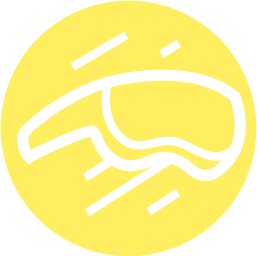
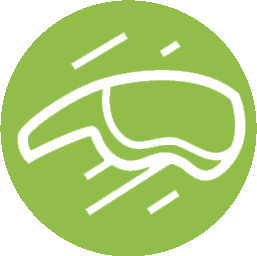
Small fixes

diff --git a/package.html b/package.html
@@ -133,7 +133,7 @@
 								<div class="skillContainer">
 								<div class="skill">
 									<img class="skillIcon" src="images/skill_gamedesign.png" />
-									<div class="skillLabel yellow">
+									<div class="skillLabel green">
 										GAME DESIGN
 									</div>
 								</div>
@@ -175,7 +175,7 @@
 									<a href="topic.html#ARCADEdesign">
 									<div class="topicsTitle">
 										ARCADE/design
-										<div class="topicsWeek">
+										<div class="topicsWeeks">
 											1 week
 										</div>
 									</div>
@@ -199,7 +199,7 @@
 									<a href="topic.html#DRIVEdesign">
 									<div class="topicsTitle">
 										DRIVE/design
-										<div class="topicsWeek">
+										<div class="topicsWeeks">
 											1 week
 										</div>
 									</div>
@@ -222,7 +222,7 @@
 									<a href="topic.html#VIRTUALreality">
 									<div class="topicsTitle">
 										VIRTUAL/reality
-										<div class="topicsWeek">
+										<div class="topicsWeeks">
 											2 weeks
 										</div>
 									</div>
@@ -520,7 +520,7 @@
 								</div>
 								<div class="skill">
 									<img class="skillIcon" src="images/skill_gamedesign.png" />
-									<div class="skillLabel yellow">
+									<div class="skillLabel green">
 										GAME DESIGN
 									</div>
 								</div>
@@ -1230,7 +1230,7 @@
 								</div>
 								<div class="skill">
 									<img class="skillIcon" src="images/skill_gamedesign.png" />
-									<div class="skillLabel yellow">
+									<div class="skillLabel green">
 										GAME DESIGN
 									</div>
 								</div>
@@ -1574,7 +1574,7 @@
 								</div>
 								<div class="skill">
 									<img class="skillIcon" src="images/skill_gamedesign.png" />
-									<div class="skillLabel yellow">
+									<div class="skillLabel green">
 										GAME DESIGN
 									</div>
 								</div>
@@ -1610,7 +1610,7 @@
 									<a href="topic.html#DRIVEdesign">
 									<div class="topicsTitle">
 										DRIVE/design
-										<div class="topicsWeek">
+										<div class="topicsWeeks">
 											1 week
 										</div>
 									</div>
@@ -1633,7 +1633,7 @@
 									<a href="topic.html#SPORTSdesign">
 									<div class="topicsTitle">
 										SPORTS/design
-										<div class="topicsWeek">
+										<div class="topicsWeeks">
 											1 week
 										</div>
 									</div>
@@ -1657,7 +1657,7 @@
 									<a href="topic.html#FLIGHTdesign">
 									<div class="topicsTitle">
 										FLIGHT/design
-										<div class="topicsWeek">
+										<div class="topicsWeeks">
 											1 week
 										</div>
 									</div>
@@ -1934,7 +1934,7 @@
 									<img src="images/subways_Z.jpg" />
 								</div>
 								<div id="locationBlurb">
-									CAMP/pixel is at Pine Street School, a new, state-of-the-art private school in the Financial District. The school offers modern, sunlit-classrooms and friendly, open common areas for activities. Pixel Academy is there year-round, running in-school and after-school programs to the students and community. For full information on the school, visit <a href="http://www.pinestreetschool.com/" target="_blank">www.pinestreetschool.com</a>.
+									CAMP/pixel is taking over an entire, 25,000 sq. ft. floor of Pine Street School, a new, state-of-the-art private school in the Financial District for an immersive and totally unique technology camp experience. For full information on the school, visit <a href="http://www.pinestreetschool.com/" target="_blank">www.pinestreetschool.com</a>.
 								</div>
 								<div id="locationBlurb">
 									For more location information, visit <a href="about.html#location">CAMP/about</a>.

diff --git a/topics.html b/topics.html
@@ -123,6 +123,9 @@
 							NEW!
 						</div>
 						SPORTS/design
+						<div class="topicsWeeks">
+							1 week
+						</div>
 					</div>
 					<div class="topicsPicture">	
 						<img src="images/SPORTS_design_large.jpg">
@@ -154,6 +157,9 @@
 							NEW!
 						</div>
 						FASHION/design
+						<div class="topicsWeeks">
+							1 week
+						</div>
 					</div>
 					<div class="topicsPicture">	
 						<img src="images/FASHION_design_large.jpg">
@@ -216,6 +222,9 @@
 					<a href="topic.html#CUTscenes">
 					<div class="topicsTitle">
 						CUT/scenes
+						<div class="topicsWeeks">
+							1 week
+						</div>
 					</div>
 					<div class="topicsPicture">	
 						<img src="images/CUT_scenes_large.jpg">
@@ -243,6 +252,9 @@
 					<a href="topic.html#DJproduction">
 					<div class="topicsTitle">
 						DJ/production
+						<div class="topicsWeeks">
+							1 week
+						</div>
 					</div>
 					<div class="topicsPicture">	
 						<img src="images/DJ_production_large.jpg">
@@ -270,6 +282,9 @@
 					<a href="topic.html#DRIVEdesign">
 					<div class="topicsTitle">
 						DRIVE/design
+						<div class="topicsWeeks">
+							1 week
+						</div>
 					</div>
 					<div class="topicsPicture">	
 						<img src="images/DRIVE_design_large.jpg">
@@ -297,6 +312,9 @@
 					<a href="topic.html#FLIGHTdesign">
 					<div class="topicsTitle">
 						FLIGHT/design
+						<div class="topicsWeeks">
+							1 week
+						</div>
 					</div>
 					<div class="topicsPicture">	
 						<img src="images/FLIGHT_design_large.jpg">
@@ -324,6 +342,9 @@
 					<a href="topic.html#JURASSICparts">
 					<div class="topicsTitle">
 						JURASSIC/parts
+						<div class="topicsWeeks">
+							1 week
+						</div>
 					</div>
 					<div class="topicsPicture">	
 						<img src="images/JURASSIC_parts_large.jpg">
@@ -351,6 +372,9 @@
 					<a href="topic.html#MINECRAFTarchitect">
 					<div class="topicsTitle">
 						MINECRAFT/architect
+						<div class="topicsWeeks">
+							1 week
+						</div>
 					</div>
 					<div class="topicsPicture">	
 						<img src="images/MINECRAFT_architect_large.jpg">
@@ -378,6 +402,9 @@
 					<a href="topic.html#MINECRAFTcoding">
 					<div class="topicsTitle">
 						MINECRAFT/coding
+						<div class="topicsWeeks">
+							2 weeks
+						</div>
 					</div>
 					<div class="topicsPicture">	
 						<img src="images/MINECRAFT_coding_large.jpg">
@@ -405,6 +432,9 @@
 					<a href="topic.html#MINECRAFTcodingplus">
 					<div class="topicsTitle">
 						MINECRAFT/coding+
+						<div class="topicsWeeks">
+							2 weeks
+						</div>
 					</div>
 					<div class="topicsPicture">	
 						<img src="images/MINECRAFT_coding +_large.jpg">
@@ -432,6 +462,9 @@
 					<a href="topic.html#MINECRAFTengineering">
 					<div class="topicsTitle">
 						MINECRAFT/engineering
+						<div class="topicsWeeks">
+							1 week
+						</div>
 					</div>
 					<div class="topicsPicture">	
 						<img src="images/MINECRAFT_engineering_large.jpg">
@@ -443,7 +476,7 @@
 								</div>
 								<span>Physical Project:</span><br/>Create a Game with littleBits<br/>
 								<div class="topicDates">
-									July 4-15 / July 18-29 / Aug 1-12 / Aug 15-26
+									Jun-Jul 27-1 / July 4-8 / July 11-15 /July 18-22 / July 25-29 / Aug 1-5 / Aug 8-12 / Aug 15-19 / Aug-Sep 29-2 
 								</div>
 							</div>
 						</div>
@@ -458,6 +491,9 @@
 					<a href="topic.html#VIRTUALreality">
 					<div class="topicsTitle">
 						VIRTUAL/reality
+						<div class="topicsWeeks">
+							2 weeks
+						</div>
 					</div>
 					<div class="topicsPicture">	
 						<img src="images/VIRTUAL_reality_large.jpg">

diff --git a/topic.html b/topic.html
@@ -776,7 +776,7 @@
 								<div class="scheduleLabel">Length</div> One Week
 							</div>
 							<div class="topicScheduleDates">
-								<div class="scheduleLabel">Dates</div> July 4-15 / July 18-29 / Aug 1-12 / Aug 15-26
+								<div class="scheduleLabel">Dates</div> Jun-Jul 27-1 / July 4-8 / July 11-15 /July 18-22 / July 25-29 / Aug 1-5 / Aug 8-12 / Aug 15-19 / Aug-Sep 29-2 
 							</div>
 						</div>
 					</div>
@@ -1264,7 +1264,7 @@
 								<img src="images/subways_Z.jpg" />
 							</div>
 							<div id="locationBlurb">
-								CAMP/pixel is at Pine Street School, a new, state-of-the-art private school in the Financial District. The school offers modern, sunlit-classrooms and friendly, open common areas for activities. Pixel Academy is there year-round, running in-school and after-school programs to the students and community. For full information on the school, visit <a href="http://www.pinestreetschool.com/" target="_blank">www.pinestreetschool.com</a>.
+								CAMP/pixel is taking over an entire, 25,000 sq. ft. floor of Pine Street School, a new, state-of-the-art private school in the Financial District for an immersive and totally unique technology camp experience. For full information on the school, visit <a href="http://www.pinestreetschool.com/" target="_blank">www.pinestreetschool.com</a>.
 							</div>
 							<div id="locationBlurb">
 								For more location information, visit <a href="about.html#location">CAMP/about</a>.

diff --git a/about.html b/about.html
@@ -472,7 +472,7 @@
 						<img src="images/subways_Z.jpg" />
 					</div>
 					<div id="locationBlurb">
-						CAMP/pixel is at Pine Street School, a new, state-of-the-art private school in the Financial District. The school offers modern, sunlit-classrooms and friendly, open common areas for activities. Pixel Academy is there year-round, running in-school and after-school programs to the students and community. For full information on the school, visit <a href="http://www.pinestreetschool.com/" target="_blank">www.pinestreetschool.com</a>.
+						CAMP/pixel is taking over an entire, 25,000 sq. ft. floor of Pine Street School, a new, state-of-the-art private school in the Financial District for an immersive and totally unique technology camp experience. For full information on the school, visit <a href="http://www.pinestreetschool.com/" target="_blank">www.pinestreetschool.com</a>.
 					</div>
 				</div>
 			</div>
@@ -587,6 +587,9 @@
 						</ul>	
 					</div>
 					
+				</div>
+				<div id="busesSubheader">
+					Don't see your location on our bus stop list? Fill out our <a href="https://pixelacademy.formstack.com/forms/busrequest">bus request form</a>.
 				</div>
 			</div>
 			<div id="locationsCTA" >

diff --git a/cit-program.css b/cit-program.css
@@ -1,8 +1,8 @@
 
 
 #scheduleSectionHeader .mainSectionImage {
-  background-image: url("images/schedule-header.jpg") !important;
-  background-position: right center; }
+  background-image: url("images/teens.jpg") !important;
+  background-position: 0% 20%; }
 
 
 #citHeader-left{

diff --git a/home.css b/home.css
@@ -70,7 +70,7 @@
   max-width: 350px;
   font-size: 32px;
   font-weight: bold;
-  background-color:  rgba(80, 86, 100, 0.8);
+  background-color:  rgba(80, 86, 100, 0.9);
   color: #ffffff;
   font-family: "Header"; 
 }

diff --git a/topics.css b/topics.css
@@ -8,6 +8,11 @@
     line-height: 24px;
     font-size: 16px;
 }
+.topicsWeeks{
+  font-size: 16px;
+  font-family: "Body";
+  margin-top: 3px;
+}
 
 
 .topic{
